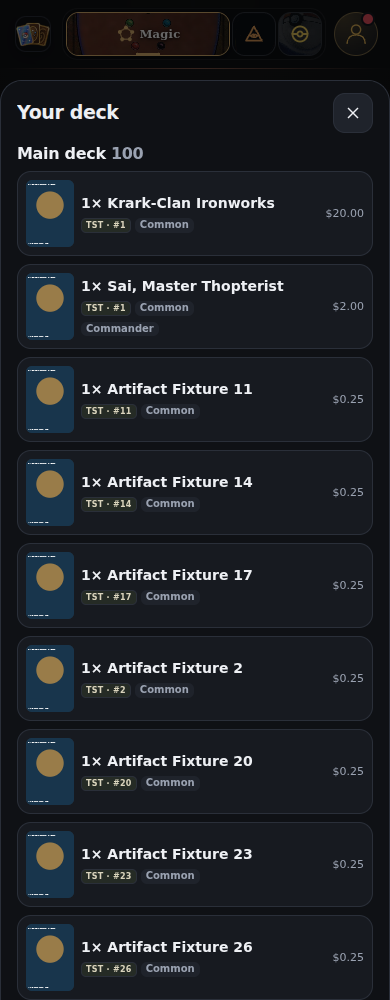
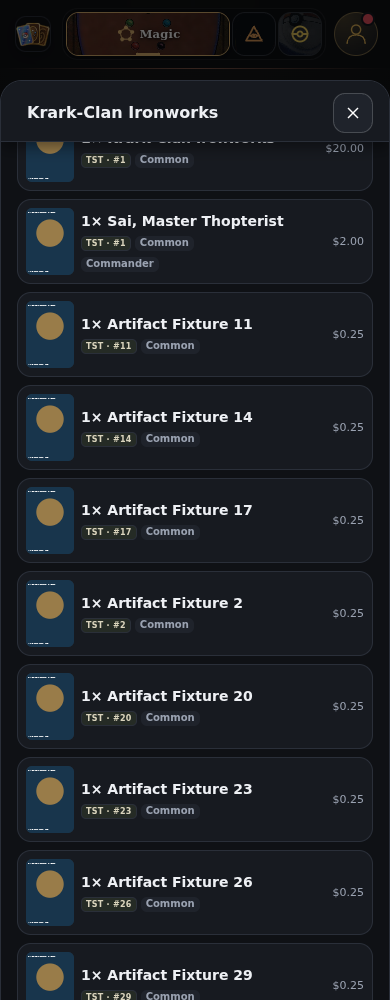
Bring generated decks into the Meta layout and show progress in Ask

diff --git a/deck-experience.js b/deck-experience.js
@@ -1,10 +1,11 @@
 import {DECK_POLICY} from './deck-construction.js';
-import {esc,usd,referencePrintingPills} from './ui.js';
+import {esc,usd,referencePrintingPills,bar,customBudget} from './ui.js';
 import {buildOverlay} from './build-overlay.js';
 import {brandMark} from './brand.js';
 import {artOf,aiReviewPanel,coachEntry,showAiReview} from './ai-review.js';
 import {engineMapPanel} from './engine-map.js';
 const themes={mtg:['White','Blue','Black','Red','Green','Cats','Angels','Humans','Elves','Goblins','Zombies','Lifelink','Lifegain','Tokens','Artifacts','Graveyard'],ptcg:['Grass','Fire','Water','Lightning','Psychic','Fighting','Darkness','Metal','Dragon','Colorless'],ygo:[]};
+const afterPaint=()=>typeof requestAnimationFrame==='function'?new Promise(resolve=>requestAnimationFrame(()=>requestAnimationFrame(resolve))):Promise.resolve();
 const options=(items,value)=>items.map(x=>`<option value="${esc(x.id??x)}" ${(x.id??x)===value?'selected':''}>${esc(x.name??x)}</option>`).join('');
 export function deckSetupMarkup(model,formats){
  if(model.busy)return `<div class="deck-flow" aria-busy="true">${buildOverlay(model.status,{title:model.choosing?'Choosing your card':'Your deck is being built',note:model.choosing?'Finding a card for your selected format.':'Finding cards for your plan and checking the list. Your deck will open here when it’s ready.',cancelAct:'flowCancelBuild'})}</div>`;
@@ -17,14 +18,29 @@ export function deckResultMarkup(result,id,{coach=''}={}){
  const zones=request.game==='ygo'?['main','extra','side']:['main'];
  const sectionCounts=request.game==='ptcg'?['Pokemon','Trainer','Energy'].map(category=>`${rows.filter(r=>r.card?.category===category).reduce((s,r)=>s+r.qty,0)} ${category==='Pokemon'?'Pokémon':category==='Trainer'?'Trainer':'Energy'}`).join(' · '):zones.map(z=>`${rows.filter(r=>r.zone===z).reduce((s,r)=>s+r.qty,0)} ${z==='main'?'main':z==='extra'?'Extra Deck':'Side Deck'}`).join(' · ');
  const count=z=>rows.filter(r=>r.zone===z).reduce((s,r)=>s+r.qty,0);
- const delta=result.delta===null?'':result.delta>0?`${usd(result.delta)} over target`:result.delta<0?`${usd(-result.delta)} below target`:'On target';
+ const budgetLabel=request.budgetMode==='cap'?'cap':'target',delta=result.delta===null?'':result.delta>0?`${usd(result.delta)} over ${budgetLabel}`:result.delta<0?`${usd(-result.delta)} below ${budgetLabel}`:request.budgetMode==='cap'?'At cap':'On target';
  const name=request.seedCard?.name||result.deck.buildAround||'Your deck';
  const hero=cover?.image_uris?.art_crop||cover?.card_faces?.[0]?.image_uris?.art_crop||artOf(cover);
  const cardRow=(r,index)=>{
   const c=r.card,printing=request.game==='mtg'?c:request.game==='ptcg'?{set:c?.set?.code||c?.set?.id,collector_number:c?.number,rarity:c?.rarity}:null;
   return `<button class="mini-row art-row deck-compact-row" data-act="flowCard" data-result="${esc(id)}" data-row="${index}" data-flow-qty="${r.qty}" data-flow-name="${esc(r.name)}">${artOf(c)?`<img class="row-thumb" src="${esc(artOf(c))}" alt="" loading="lazy">`:'<span class="row-thumb img-missing" aria-hidden="true"></span>'}<span class="deck-compact-copy"><b>${r.qty}× ${esc(r.name)}</b>${referencePrintingPills(printing)}${request.game==='ygo'&&c?.archetype?`<span class="tag">${esc(c.archetype)}</span>`:''}${r.name===result.deck.commander?'<span class="tag">Commander</span>':''}</span><span class="small muted">${r.price===null?'Unpriced':usd(r.price*r.qty)}</span></button>`;
  };
- return `<article class="deck-flow-result" data-flow-result="${esc(id)}"><div class="cs-hero compact ${esc(request.game)}">${hero?`<img class="cs-art" src="${esc(hero)}" alt="" loading="lazy">`:''}<div class="cs-shade"></div></div><header class="cs-title"><div><h2>${esc(name)}</h2><p class="type-line">${esc(request.formatName)} · ${sectionCounts}</p></div></header><p class="evidence small">Generated deck · Complete · structure checked</p><div class="deck-result-price"><strong>${pricing.estimate===null&&!pricing.subtotal?'Price unknown':usd(pricing.estimate??pricing.subtotal)+(pricing.estimate===null?'+':'')}</strong><span>${pricing.estimate===null?(pricing.subtotal?'Known subtotal':'No checked prices yet'):'Reference estimate'} · ${pricing.basis==='purchase'?'purchases after owned cards':'whole deck'}</span>${request.budget!==null?`<span class="${result.delta>0?'warn-text':''}">${request.budgetMode==='cap'?'Cap':'Target'} ${usd(request.budget)}${delta?' · '+delta:''}</span>`:''}</div>${pricing.unpriced?`<p class="note warn">${pricing.unpriced} copies are unpriced. The total and budget fit are unverified.</p>`:''}${result.budgetStatus==='outside-target'?'<p class="note warn">This complete candidate exceeds the allowed overage. The loaded pool did not produce a checked list near your target.</p>':''}<p class="small">Built around ${esc(name)}${request.theme?' · requested theme: '+esc(request.theme):''}. ${request.easy?'Ranked to prefer fewer setup requirements. ':''}${request.game==='ptcg'&&result.plan.attackers?.length?'Attack with '+result.plan.attackers.map(c=>esc(c.name)+(c.evolveFrom?' (evolves from '+esc(c.evolveFrom)+')':'')).join(', ')+'. The selected Energy supports at least one attack on each. ':''}Card interactions and performance still need playtesting.</p><button class="btn block" data-act="flowSave" data-result="${esc(id)}">Save deck</button><div class="actions wrap"><button class="btn ghost small" data-act="flowEdit" data-result="${esc(id)}">Edit choices</button><button class="btn ghost small" data-act="flowExport" data-result="${esc(id)}">Export list</button></div><details class="deck-adjust"><summary>Adjust budget</summary><label class="field">New target ($)<input data-flow-budget type="number" min="0" max="100000" step="0.01" value="${esc(request.budget??'')}" placeholder="No target"></label><button class="btn ghost" data-act="flowAdjust" data-result="${esc(id)}">Rebuild with this target</button><p role="status" data-flow-status></p></details><details class="deck-flow-cards" open><summary>View cards</summary>${zones.filter(z=>count(z)>0).map(z=>`<section><h3>${z==='main'?'Main deck':z==='extra'?'Extra Deck':'Side Deck'} <span>${count(z)}</span></h3><div class="list compact deck-compact-list">${rows.map((r,i)=>({r,i})).filter(({r})=>r.zone===z).map(({r,i})=>cardRow(r,i)).join('')}</div></section>`).join('')}</details><details class="settings-disclosure"><summary>Checks &amp; pricing</summary><p class="foot">${esc(pricing.note)} ${Math.round(pricing.coverage*100)}% price coverage. Compared ${result.compared} distinct lists. Power and engine links are heuristics, not matchup win rates or proof of a legal combo.</p>${result.plan.theme?`<p class="foot">Theme evidence: ${esc(result.plan.theme.status)}. ${esc(result.plan.theme.method)}</p>${result.plan.theme.groups.map(g=>`<p class="foot">${esc(g.label)}: ${g.copies} supporting library copies; ${Math.round(g.access*100)}% natural access in the first ${g.seen} cards.</p>`).join('')}`:''}${result.plan.notes.map(n=>`<p class="foot">${esc(n)}</p>`).join('')}${engineMapPanel(result.plan.engine)}</details>${coach?`<details class="settings-disclosure"><summary>AI review &amp; improvements</summary>${coach}<button class="btn ghost small" data-act="flowImprove" data-result="${esc(id)}">Try a checked suggestion</button><p class="foot" data-flow-improve-status role="status"></p></details>`:''}</article>`;
+ const plan=`<p class="small">Built around ${esc(name)}${request.theme?' · requested theme: '+esc(request.theme):''}. ${request.easy?'Ranked to prefer fewer setup requirements. ':''}${request.game==='ptcg'&&result.plan.attackers?.length?'Attack with '+result.plan.attackers.map(c=>esc(c.name)+(c.evolveFrom?' (evolves from '+esc(c.evolveFrom)+')':'')).join(', ')+'. The selected Energy supports at least one attack on each. ':''}Card interactions and performance still need playtesting.</p>`;
+ return `<article class="deck-flow-result" data-flow-result="${esc(id)}">
+  <div class="cs-hero compact ${esc(request.game)}">${hero?`<img class="cs-art" src="${esc(hero)}" alt="" loading="lazy">`:''}<div class="cs-shade"></div></div>
+  <header class="cs-title"><div><h2>${esc(name)}</h2><p class="type-line">${esc(request.formatName)} · ${sectionCounts}</p></div></header>
+  <p class="evidence small">Generated deck · Complete · structure checked</p>
+  <div class="proven-sum deck-result-price"><div><strong>${pricing.estimate===null&&!pricing.subtotal?'Price unknown':usd(pricing.estimate??pricing.subtotal)+(pricing.estimate===null?'+':'')}</strong><span>${pricing.estimate===null?(pricing.subtotal?'Known subtotal':'No checked prices yet'):'Reference estimate'} · ${pricing.basis==='purchase'?'purchases after owned cards':'whole deck'}</span></div><span>You own <b>${pricing.ownedCopies} of ${pricing.copies}</b></span></div>
+  ${bar(pricing.copies?pricing.ownedCopies/pricing.copies:0)}
+  ${request.budget!==null?`<p class="small ${result.delta>0?'warn-text':'muted'}">${request.budgetMode==='cap'?'Cap':'Target'} ${usd(request.budget)}${delta?' · '+delta:''}</p>`:''}
+  ${pricing.unpriced?`<p class="note warn">${pricing.unpriced} copies are unpriced. The total and budget fit are unverified.</p>`:''}
+  ${result.budgetStatus==='outside-target'?'<p class="note warn">This complete candidate exceeds the allowed overage. The loaded pool did not produce a checked list near your target.</p>':''}
+  <div class="deck-result-actions"><button class="btn" data-act="flowSave" data-result="${esc(id)}">Save deck</button>${coach}</div>
+  <div class="deck-budget-rebuild"><label class="field">Budget ($)<input data-flow-budget type="number" min="0" max="100000" step="0.01" inputmode="decimal" value="" placeholder="Enter amount" required></label><button class="btn ghost" data-act="flowAdjust" data-result="${esc(id)}">Rebuild with budget</button><p class="small" role="status" data-flow-status></p></div>
+  <div class="deck-flow-cards">${zones.filter(z=>count(z)>0).map(z=>`<section><h3>${z==='main'?'Main deck':z==='extra'?'Extra Deck':'Side Deck'} <span>${count(z)}</span></h3><div class="list compact deck-compact-list">${rows.map((r,i)=>({r,i})).filter(({r})=>r.zone===z).map(({r,i})=>cardRow(r,i)).join('')}</div></section>`).join('')}</div>
+  <div class="actions wrap sheet-actions"><button class="btn ghost small" data-act="flowEdit" data-result="${esc(id)}">Edit choices</button><button class="btn ghost small" data-act="flowExport" data-result="${esc(id)}">Export list</button></div>
+  <details class="settings-disclosure deck-result-checks"><summary>Deck plan, checks &amp; pricing</summary>${plan}<p class="foot">${esc(pricing.note)} ${Math.round(pricing.coverage*100)}% price coverage. Compared ${result.compared} distinct lists. Power and engine links are heuristics, not matchup win rates or proof of a legal combo.</p>${result.plan.theme?`<p class="foot">Theme evidence: ${esc(result.plan.theme.status)}. ${esc(result.plan.theme.method)}</p>${result.plan.theme.groups.map(g=>`<p class="foot">${esc(g.label)}: ${g.copies} supporting library copies; ${Math.round(g.access*100)}% natural access in the first ${g.seen} cards.</p>`).join('')}`:''}${result.plan.notes.map(n=>`<p class="foot">${esc(n)}</p>`).join('')}${engineMapPanel(result.plan.engine)}${coach?`<button class="btn ghost small" data-act="flowImprove" data-result="${esc(id)}">Try a checked AI suggestion</button><p class="foot" data-flow-improve-status role="status"></p>`:''}</details>
+ </article>`;
 }
 export function createDeckExperience(x){
  const {pipeline,A}=x,results=new Map();let model=null,sequence=0,cancelBuild=null;
@@ -37,16 +53,34 @@ export function createDeckExperience(x){
  const register=(result,scope)=>{const id='deck-result-'+(++sequence);results.set(id,{result,scope,identity:x.identity?.()||scope});while(results.size>30)results.delete(results.keys().next().value);return id;};
  const markup=(id)=>{const item=results.get(id);if(!item)return '';const r=item.result,deck={...r.deck,id},hooks=x.coachHooks?.(r,deck)||{};
   const baseRescore=hooks.rescore;hooks.rescore=(out,card)=>{const trial=pipeline.trialSwap(r,out,card),base=baseRescore?.(out,card)||{};return {...base,issues:[...(base.issues||[]),...(trial.check.issues||[]),...trial.plan.issues]};};
-  return deckResultMarkup(r,id,{coach:aiReviewPanel(r.request.game,deck,name=>r.request.game==='mtg'?x.meta(name):x.T.cardOf(r.request.game,name),r.power,hooks).replace('data-act="aiDeckReview"','data-act="flowCoach" data-result="'+id+'"')});};
+  return deckResultMarkup(r,id,{coach:aiReviewPanel(r.request.game,deck,name=>r.request.game==='mtg'?x.meta(name):x.T.cardOf(r.request.game,name),r.power,hooks,{compact:true}).replace('data-act="aiDeckReview"','data-act="flowCoach" data-result="'+id+'"')});};
  const preferences=()=>{try{return JSON.parse(globalThis.localStorage?.getItem('cardstashy.deck.preferences.v1')||'{}');}catch{return {};}};
  const savePreferences=()=>{const {budgetBasis,budgetMode,preferOwned,ownedOnly,easy}=model.request;try{globalThis.localStorage?.setItem('cardstashy.deck.preferences.v1',JSON.stringify({budgetBasis,budgetMode,preferOwned,ownedOnly,easy}));}catch{}};
  const open=request=>{sequence++;const game=request.game||x.game(),formats=pipeline.formats[game],fallback=formats.find(f=>f.id===({mtg:'standard',ygo:'tcg',ptcg:'standard'}[game]))||formats[0];model={request:{game,format:game==='mtg'?fallback.name:fallback.id,budget:'',budgetBasis:'total',budgetMode:'cap',preferOwned:true,...preferences(),...request},scope:x.scope(),busy:false,status:''};x.open(deckSetupMarkup(model,pipeline.formats),model.request);const opened=model;if(game==='ygo'&&pipeline.themes)pipeline.themes(game).then(names=>{if(model!==opened||!x.isOpen()||!model.scope())return;model.themes=names;const select=x.root().querySelector('[data-flow-field="theme"]');if(select){select.innerHTML='<option value="">No preference</option>'+options([...new Set([model.request.theme,...names].filter(Boolean))],model.request.theme);}}).catch(()=>{if(model===opened&&x.isOpen()){const status=x.root().querySelector('[role="status"]');if(status)status.textContent='Archetypes could not load. You can still build around your card, or reopen to retry.';}});};
  const build=async(input,options={})=>pipeline.build(input,options);
- const show=(result,scope)=>{const id=register(result,scope);x.open(`<div class="sheet-head"><h2>Your deck</h2><button class="icon" data-act="closeSheet" aria-label="Close">✕</button></div>${markup(id)}`,result.request);return id;};
+ // Ask shares construction, but owns a different native dialog. Put progress in
+ // that dialog's top layer and yield a paint even when every provider read is cached.
+ const buildWithProgress=async(input,options={})=>{
+  if(!options.showProgress||typeof document==='undefined')return build(input,options);
+  const host=document.querySelector('.ask-dialog[open]');if(!host)return build(input,options);
+  const overlay=document.createElement('div');overlay.innerHTML=buildOverlay('Finding cards for your plan…',{title:'Your deck is being built',note:'Your finished deck will appear in this conversation.',cancelAct:'flowCancelBuild'});
+  const previous=document.activeElement,background=[...host.children].map(node=>({node,inert:node.inert}));
+  for(const {node} of background)node.inert=true;
+  host.append(overlay);let active=true,settleCancel;
+  const cancelled=new Promise(resolve=>settleCancel=resolve),cancel=()=>{active=false;settleCancel({ok:false,message:'Build cancelled. Nothing was saved.'});};
+  const button=overlay.querySelector('button');button.addEventListener('click',e=>{e.preventDefault();e.stopPropagation();cancel();});button.focus();
+  host.addEventListener('close',cancel);options.signal?.addEventListener('abort',cancel,{once:true});
+  const current=()=>active&&host.open&&options.current?.()!==false&&!options.signal?.aborted;
+  try{
+   await afterPaint();if(!current())return {ok:false,message:'Build cancelled. Nothing was saved.'};
+   return await Promise.race([cancelled,build(input,{...options,current,onStatus:message=>{if(current()){overlay.querySelector('[role="status"]').textContent=message;options.onStatus?.(message);}}})]);
+  }finally{active=false;overlay.remove();for(const {node,inert} of background)node.inert=inert;host.removeEventListener('close',cancel);options.signal?.removeEventListener('abort',cancel);if(host.open&&previous?.isConnected)previous.focus?.({preventScroll:true});}
+ };
+ const show=(result,scope)=>{const id=register(result,scope);x.open(`<div class="sheet-head overlay"><span aria-hidden="true"></span><button class="icon" data-act="closeSheet" aria-label="Close">✕</button></div>${markup(id)}`,result.request);return id;};
  const get=button=>{const item=results.get(button.dataset.result);if(!item||!item.scope())throw Error('Your account or collection changed. Rebuild before saving.');return item;};
  A.flowCancelBuild=()=>{if(cancelBuild){const cancel=cancelBuild;cancelBuild=null;cancel();}};
- A.flowGenerate=async()=>{if(model.busy)return;read();savePreferences();const token=++sequence;model.busy=true;model.choosing=false;model.error=false;model.status='Finding a coherent plan…';cancelBuild=()=>{sequence++;model.busy=false;model.status='Build cancelled. Your choices are unchanged.';paint();};paint();try{const result=await build(model.request,{current:()=>current(token),onStatus:message=>{if(current(token)){model.status=message;const status=x.root().querySelector('[role="status"]');if(status)status.textContent=message;}}});if(!current(token))return;if(result.ok)show(result,model.scope);else{model.busy=false;model.error=true;model.status=result.message;paint();}}catch(e){if(current(token)){model.busy=false;model.error=true;model.status=e.message;paint();}}};
- A.flowRandom=async()=>{if(model.busy)return;read();const token=++sequence;model.busy=true;model.error=false;model.status='Choosing a build-around…';model.choosing=true;cancelBuild=()=>{sequence++;model.busy=false;model.status='Selection cancelled. Your choices are unchanged.';paint();};paint();try{const r={...model.request,seed:'',seedCard:null,seedCards:[],ygoPurchaseSelections:{},ptcgPurchaseSelections:{},randomSeed:Math.floor(Math.random()*1e9)};const card=await x.random(r);if(!current(token))return;model.request={...r,seed:card.name,seedCard:card,seedCards:[card]};model.busy=false;model.error=false;model.status='';paint();}catch(e){if(current(token)){model.busy=false;model.error=true;model.status=e.message;paint();}}};
+ A.flowGenerate=async()=>{if(model.busy)return;read();savePreferences();const token=++sequence;model.busy=true;model.choosing=false;model.error=false;model.status='Finding a coherent plan…';cancelBuild=()=>{sequence++;model.busy=false;model.status='Build cancelled. Your choices are unchanged.';paint();};paint();try{await afterPaint();if(!current(token))return;const result=await build(model.request,{current:()=>current(token),onStatus:message=>{if(current(token)){model.status=message;const status=x.root().querySelector('[role="status"]');if(status)status.textContent=message;}}});if(!current(token))return;if(result.ok)show(result,model.scope);else{model.busy=false;model.error=true;model.status=result.message;paint();}}catch(e){if(current(token)){model.busy=false;model.error=true;model.status=e.message;paint();}}};
+ A.flowRandom=async()=>{if(model.busy)return;read();const token=++sequence;model.busy=true;model.error=false;model.status='Choosing a build-around…';model.choosing=true;cancelBuild=()=>{sequence++;model.busy=false;model.status='Selection cancelled. Your choices are unchanged.';paint();};paint();try{await afterPaint();if(!current(token))return;const r={...model.request,seed:'',seedCard:null,seedCards:[],ygoPurchaseSelections:{},ptcgPurchaseSelections:{},randomSeed:Math.floor(Math.random()*1e9)};const card=await x.random(r);if(!current(token))return;model.request={...r,seed:card.name,seedCard:card,seedCards:[card]};model.busy=false;model.error=false;model.status='';paint();}catch(e){if(current(token)){model.busy=false;model.error=true;model.status=e.message;paint();}}};
  // Random Commander keeps Commander through rerolls, generation, save and edit; switching to another format is an
  // explicit step into the general builder, never a silent change.
  A.flowAnyFormat=()=>{if(!model)return;read();sequence++;model.request={...model.request,commanderLock:false};model.busy=false;model.error=false;model.status='';paint();};
@@ -54,7 +88,7 @@ export function createDeckExperience(x){
  A.flowExport=button=>{const {result:r}=get(button);x.export(r.rows.map(row=>`${row.qty} ${row.name}${row.zone!=='main'?' ['+row.zone+']':''}${r.request.game==='ptcg'?' ['+row.id+(row.selection?.variant?' · '+row.selection.variant:'')+']':''}`).join('\n'));};
  A.flowEdit=button=>open(get(button).result.request);
  A.flowCard=button=>{const {result:r}=get(button);x.card(r.request.game,r.rows[Number(button.dataset.row)]);};
- A.flowAdjust=async button=>{const item=get(button),root=button.closest('[data-flow-result]'),field=root.querySelector('[data-flow-budget]'),status=root.querySelector('[data-flow-status]'),value=field.value,token=++sequence;button.disabled=true;const overlay=document.createElement('div');overlay.innerHTML=buildOverlay('Finding cards for your updated budget…',{title:'Your deck is being built',note:'Your updated deck will open here when it’s ready.',cancelAct:'flowCancelBuild'});root.append(overlay);overlay.querySelector('button')?.focus();cancelBuild=()=>{sequence++;overlay.remove();button.disabled=false;status.textContent='Rebuild cancelled. Your deck is unchanged.';button.focus();};try{const result=await build({...item.result.request,budget:value,previousDeck:item.result.deck},{current:()=>sequence===token&&item.scope()&&root.isConnected,onStatus:m=>{if(sequence===token&&overlay.isConnected)overlay.querySelector('[role="status"]').textContent=m;}});if(sequence!==token||!root.isConnected)return;if(result.ok){const id=register(result,item.scope);root.outerHTML=markup(id);}else status.textContent=result.message;}catch(e){if(sequence===token&&root.isConnected)status.textContent=e.message;}finally{overlay.remove();if(sequence===token)button.disabled=false;}};
+ A.flowAdjust=async button=>{const item=get(button),root=button.closest('[data-flow-result]'),field=root.querySelector('[data-flow-budget]'),status=root.querySelector('[data-flow-status]'),value=field.value;let budget;try{budget=customBudget(value);}catch(e){status.textContent=e.message;field.focus();return;}const token=++sequence;button.disabled=true;const overlay=document.createElement('div');overlay.innerHTML=buildOverlay('Finding cards for your updated budget…',{title:'Your deck is being built',note:'Your updated deck will open here when it’s ready.',cancelAct:'flowCancelBuild'});root.append(overlay);overlay.querySelector('button')?.focus();cancelBuild=()=>{sequence++;overlay.remove();button.disabled=false;status.textContent='Rebuild cancelled. Your deck is unchanged.';button.focus();};try{await afterPaint();if(sequence!==token||!root.isConnected)return;const result=await build({...item.result.request,budget,previousDeck:item.result.deck},{current:()=>sequence===token&&item.scope()&&root.isConnected,onStatus:m=>{if(sequence===token&&overlay.isConnected)overlay.querySelector('[role="status"]').textContent=m;}});if(sequence!==token||!root.isConnected)return;if(result.ok){const id=register(result,item.scope);root.outerHTML=markup(id);}else status.textContent=result.message;}catch(e){if(sequence===token&&root.isConnected)status.textContent=e.message;}finally{overlay.remove();if(sequence===token)button.disabled=false;}};
  A.flowCoach=button=>{const item=get(button);return showAiReview(item.result.request.game+':'+button.dataset.result,()=>{});};
  A.flowImprove=async button=>{
   const item=get(button),root=button.closest('[data-flow-result]'),status=root.querySelector('[data-flow-improve-status]'),key=item.result.request.game+':'+button.dataset.result;
@@ -69,5 +103,5 @@ export function createDeckExperience(x){
   }finally{button.disabled=false;}
  };
  x.onInput(()=>{if(!model||!x.isOpen()||model.busy)return;read();sequence++;model.busy=false;model.error=false;model.status='';showStatus();const note=x.root().querySelector('[data-flow-budget-note]');if(note)note.hidden=String(model.request.budget??'').trim()==='';if(note)note.textContent=(model.request.budgetBasis==='purchase'?'Cards you need to buy':'Whole deck')+' · '+(model.request.budgetMode==='target'?'Flexible target; allowed overage is shown':'Strict cap; never relaxed automatically')+'.';const button=x.root().querySelector('[data-act="flowGenerate"]');if(button){button.disabled=false;button.textContent='Generate deck';}});
- return {open,build,register,markup,show};
+ return {open,build:buildWithProgress,register,markup,show};
 }

diff --git a/style.css b/style.css
@@ -5070,8 +5070,8 @@ body[data-view="home"] #content > #homeHero.home-art-header{background:none}
 .deck-format-lock{display:flex;flex-wrap:wrap;align-items:center;gap:6px 12px}.deck-format-lock>span{color:var(--muted)}.deck-format-lock>b{flex:1}
 .deck-setup-fields{display:grid;grid-template-columns:repeat(2,minmax(0,1fr));gap:0 16px;margin-top:12px}.deck-setup-fields>.field:last-child{grid-column:1/-1}
 .deck-flow-result>.cs-hero{margin:0;border-radius:18px;height:180px}.deck-flow-result>.cs-title{margin-top:-28px}.deck-flow-result>.cs-title h2{overflow-wrap:break-word}.ask-msg .deck-flow-result>.cs-hero{height:150px}
-.deck-result-price{display:flex;flex-wrap:wrap;align-items:baseline;gap:6px 12px;padding:12px 0;border-block:1px solid var(--line)}.deck-result-price strong{font-size:1.5rem}.deck-result-price span{font-size:.875rem;color:var(--muted)}.deck-result-price .warn-text{color:var(--gold)}
-.deck-flow-result>.actions{margin-top:10px}.deck-flow-cards{margin-top:18px}.deck-flow-cards summary,.deck-adjust summary{cursor:pointer;padding:12px 0;min-height:44px}.deck-flow-cards h3{font-size:1rem;margin:18px 0 8px}.deck-flow-cards h3 span{color:var(--muted)}
+.deck-result-price{display:flex;flex-wrap:wrap;align-items:baseline;gap:6px 12px;padding:12px 0;border-block:1px solid var(--line)}.deck-result-price strong{font-size:1.5rem}.deck-result-price>div{display:flex;flex-wrap:wrap;align-items:baseline;gap:4px 10px}.deck-result-price span{font-size:.875rem;color:var(--muted)}.deck-result-price .warn-text{color:var(--gold)}
+.deck-flow-result>.actions{margin-top:14px}.deck-flow-cards{margin-top:16px}.deck-flow-cards h3{font-size:1rem;margin:18px 0 8px}.deck-flow-cards h3 span{color:var(--muted)}
 
 .ask-items:has(.deck-flow-result){display:block}.ask-msg .deck-flow-result{width:100%}.ask-msg .deck-flow-result .ai-review{padding:12px 0;border:0;box-shadow:none;background:transparent}
 @media(max-width:420px){.deck-setup-fields{grid-template-columns:1fr}}
@@ -5089,3 +5089,7 @@ body[data-view="home"] #content > #homeHero.home-art-header{background:none}
 
 .settings-page .btn:not(.ghost):not(.danger){background:var(--brand-action);color:var(--brand-action-ink);border-color:var(--brand-action)}
 .deck-setup-fields .field small{font-size:12px;line-height:1.5;color:var(--muted);font-weight:400}
+
+/* Generated decks use the established Meta inspector, with one clear action row. */
+.deck-result-actions{display:flex;align-items:flex-start;gap:10px;margin:14px 0}.deck-result-actions>.btn,.deck-coach-action{flex:1;min-width:0}.deck-coach-action>.btn{width:100%;display:flex;justify-content:center;align-items:center;gap:7px}.deck-coach-action .stashy-logo{width:28px;height:28px;flex:none}.deck-coach-action small{display:block;font-size:10px;line-height:1.4;color:var(--muted);margin:5px 2px 0}.deck-budget-rebuild{display:grid;grid-template-columns:minmax(0,1fr) auto;gap:8px 12px;align-items:end;padding:14px 0;border-block:1px solid var(--line)}.deck-budget-rebuild .field{margin:0}.deck-budget-rebuild>.btn{margin-bottom:0}.deck-budget-rebuild>[role=status]{grid-column:1/-1;margin:0}.deck-budget-rebuild>[role=status]:empty{display:none}.deck-result-checks>summary{cursor:pointer;min-height:44px;padding:12px 0}.deck-flow-result>.cs-hero{height:200px}.deck-flow-result>.cs-title{margin-top:-30px}.deck-flow-result .deck-flow-cards h3{font-size:.95rem}
+@media(max-width:420px){.deck-budget-rebuild{grid-template-columns:minmax(0,1fr)}.deck-budget-rebuild>.btn{width:100%}.deck-result-actions{gap:8px}.deck-coach-action small{font-size:10px}}

diff --git a/ai-review.js b/ai-review.js
@@ -219,7 +219,7 @@ function verify(entry) {
 
 /* ---------- Launcher and dialog ---------- */
 
-export function aiReviewPanel(game, deck, lookup, p, hooks = {}) {
+export function aiReviewPanel(game, deck, lookup, p, hooks = {}, {compact = false} = {}) {
   const payload = reviewPayload(game, deck, lookup, p), signature = JSON.stringify(payload), key = game + ':' + deck.id;
   let entry = entries.get(key);
   if (!entry || entry.signature !== signature) {
@@ -228,6 +228,7 @@ export function aiReviewPanel(game, deck, lookup, p, hooks = {}) {
     if (activeDialog?.key === key) { activeDialog.stale = true; updateDialog(); }
   } else entry.hooks = hooks;
   const result = entry.result, ready = result ? `${plural(result.pilot?.lines?.length || 0, 'line')} · ${plural(result.pressure?.scenarios?.length || 0, 'stress test')} · ${plural(result.improve?.length || 0, 'swap')}` : '';
+  if(compact)return `<div class="deck-coach-action"><button class="btn ghost" data-act="aiDeckReview" data-ai="${esc(key)}" aria-label="AI review of this deck">${brandMark('brand-idle')}<span>${entry.busy?'View AI progress':result?'Open AI review':'AI review'}</span></button><small>Optional · sends card text and owned swap candidates to OpenAI.</small></div>`;
   return `<section class="panel ai-review ai-review-launch" aria-label="AI deck coach"><div class="ai-launch-top"><span class="ai-sigil" aria-hidden="true">${brandMark("brand-idle")}</span><div><p class="eyebrow">AI coach · all three games</p><h3>Pilot, pressure-test and improve this deck</h3></div><span class="chip">AI</span></div><p class="small muted">Possible lines from your own cards, recovery plans and owned swaps. Basic card, quote and turn checks catch some mistakes; they do not verify the full advice or a winning route.</p><div class="ai-launch-actions"><button class="btn small" data-act="aiDeckReview" data-ai="${esc(key)}">${entry.busy ? 'View coaching progress' : result ? 'Open coaching' : 'Coach this deck'} <span aria-hidden="true">↗</span></button><span class="small muted">${entry.busy ? 'Coaching in progress' : result ? ready : 'Optional · your score stays unchanged'}</span></div><p class="foot">Tapping it sends this deck's card text, the app's checks and the names and text of up to 25 cards you own to OpenAI. Your account details and prices stay out of the request.</p><div role="status" aria-live="polite">${entry.error ? `<p class="warn-text small">${esc(entry.error)}</p>` : ''}</div></section>`;
 }
 
@@ -333,7 +334,7 @@ export function closeAiReview() {
   if (!activeDialog) return;
   const { node, key } = activeDialog; activeDialog = null;
   node.close?.(); node.remove();
-  [...document.querySelectorAll('[data-act="aiDeckReview"]')].find(b => b.dataset.ai === key)?.focus({ preventScroll: true });
+  [...document.querySelectorAll('[data-act="aiDeckReview"], [data-act="flowCoach"]')].find(b => b.dataset.ai === key)?.focus({ preventScroll: true });
 }
 export function showAiReview(key, render, fetcher = fetch) {
   const entry = entries.get(key); if (!entry) return;

diff --git a/release-record.js b/release-record.js
@@ -1,6 +1,6 @@
 // Coordinated website/Android release; the signed artifact hash is filled after verification.
 export const RELEASE = Object.freeze({
  id:'web-3.94.0-android-0.6.0',date:'2026-10-23',webVersion:'3.94.0',
- changes:['Deck generation shows the animated CardStashy logo with live progress and cancellation, then opens the completed deck. Generated decks share the existing artwork header and readable card-row design.','Deck requests preserve more creature types and keyword abilities, explicit creature-type restrictions and strict spending caps. Flexible budget targets remain an explicit choice.','Commander builds check recognized support and show access estimates. Life-gain direction, changeling, alternative subtypes and common self-conflicts use shared evidence; legality is distinct from strategic strength.','Explore related cards by type, ability or Yu-Gi-Oh! archetype using existing Search, with a return to the original card. Pokémon Ability-name results are explicitly limited to loaded card data.','More than 250 Magic keyword/action definitions link to the dated official rulebook; additional Pokémon and Yu-Gi-Oh! reminders retain hover, touch and exact-source navigation.'],
- android:Object.freeze({version:'0.6.0 beta',versionName:'0.6.0-beta',versionCode:13,interfaceVersion:'3.94.0',package:'com.cardstashy.app',href:'/downloads/cardstashy-android-beta-0.6.0.apk',bytes:0,sha256:'PENDING'})
+ changes:['Deck generation shows the animated CardStashy logo with live progress and cancellation, then opens the completed deck. Generated decks share the existing artwork header and readable card-row design, with AI review near the top and a blank Rebuild with budget control.','Deck requests preserve more creature types and keyword abilities, explicit creature-type restrictions and strict spending caps. Flexible budget targets remain an explicit choice.','Commander builds check recognized support and show access estimates. Life-gain direction, changeling, alternative subtypes and common self-conflicts use shared evidence; legality is distinct from strategic strength.','Explore related cards by type, ability or Yu-Gi-Oh! archetype using existing Search, with a return to the original card. Pokémon Ability-name results are explicitly limited to loaded card data.','More than 250 Magic keyword/action definitions link to the dated official rulebook; additional Pokémon and Yu-Gi-Oh! reminders retain hover, touch and exact-source navigation.'],
+ android:Object.freeze({version:'0.6.0 beta',versionName:'0.6.0-beta',versionCode:13,interfaceVersion:'3.94.0',package:'com.cardstashy.app',href:'/downloads/cardstashy-android-beta-0.6.0.apk',bytes:0,sha256:'PENDING_SIGNED_ARTIFACT'})
 });

diff --git a/ai-tools.js b/ai-tools.js
@@ -233,7 +233,7 @@ export function makeAskTools(x) {
       if(!selected)return {game:g,requiresChoice:true,formats:formats.map(f=>({id:f.id,name:f.name})),note:'Choose a format before preparing a deck. No deck has been changed.'};
       if(x.deckExperience){
         const previous=lastSharedBuild?.current()&&/^\s*(?:keep|same|make (?:it|that)|adjust|change|closer|cheaper|easier|simpler)/i.test(handshake.userRequest||'')&&lastSharedBuild.result.request.game===g&&lastSharedBuild.result.request.format===selected.id?lastSharedBuild.result:null;
-        const result=await x.deckExperience.build({...checked.args,previousDeck:previous?.deck,seed:seed||previous?.request.seed,seedCard:seed&&seed!==previous?.request.seed?null:previous?.request.seedCard,game:g,format:selected.id,budget:budget===0?null:budget,theme:previous&&/^(?:easy|easier|simple|simpler|beginner|cheaper|closer|easy to play)(?: deck)?$/i.test(want.trim())?previous.request.theme:g==='mtg'?want:g==='ptcg'?(['Grass','Fire','Water','Lightning','Psychic','Fighting','Darkness','Metal','Dragon','Colorless'].find(t=>new RegExp('\\b'+t+'\\b','i').test(want))||''):(!seed&&!vagueDeckStyle(want)?want:''),easy:/easy|easier|beginner|simple|simpler/i.test(style||'')},{current:preparingCurrent});
+        const result=await x.deckExperience.build({...checked.args,previousDeck:previous?.deck,seed:seed||previous?.request.seed,seedCard:seed&&seed!==previous?.request.seed?null:previous?.request.seedCard,game:g,format:selected.id,budget:budget===0?null:budget,theme:previous&&/^(?:easy|easier|simple|simpler|beginner|cheaper|closer|easy to play)(?: deck)?$/i.test(want.trim())?previous.request.theme:g==='mtg'?want:g==='ptcg'?(['Grass','Fire','Water','Lightning','Psychic','Fighting','Darkness','Metal','Dragon','Colorless'].find(t=>new RegExp('\\b'+t+'\\b','i').test(want))||''):(!seed&&!vagueDeckStyle(want)?want:''),easy:/easy|easier|beginner|simple|simpler/i.test(style||'')},{current:preparingCurrent,showProgress:true,signal:handshake.signal});
         if(!preparingCurrent())return {cancelled:true,terminal:true,note:'This request or workspace changed. Nothing was saved.'};
         if(!result.ok)return {game:g,terminal:true,ready:false,complete:false,requestSatisfied:false,note:result.message,issues:result.details||[]};
         lastSharedBuild={result,current:scopeCurrent};

diff --git a/docs/releases/deck-knowledge-3.94.0.md b/docs/releases/deck-knowledge-3.94.0.md
@@ -8,7 +8,7 @@ Request preservation, spending policy, recognized strategic support and card exp
 
 - The dated Scryfall vocabulary snapshot supplies 365 creature types and 223 keyword abilities, plus action/ability-word vocabulary. A catalog name establishes recognition, not full mechanical modeling. Source URLs, retrieval date and response hashes are retained in `mtg-vocabulary.js`.
 - Explicit supported subtype/keyword requests survive model omissions. Recognized directives such as “only Angel creatures” and “without Angels” also become type restrictions, distinct from a tribal preference. Noncreature support spells remain permitted by an Angel-only creature restriction. Unknown prose remains reviewable, not verified.
-- Deck generation reuses the existing animated CardStashy-logo progress pop-up, with live status and cancellation. Cancelled/closed builds cannot replace a newer view. Completion opens the deck automatically; failures restore the setup and choices. Budget rebuilds use the same progress presentation. Generated manual/Ask results use the existing artwork header, reference-printing badges and readable compact deck rows. Generated results remain clearly distinct from tournament evidence.
+- Deck generation reuses the existing animated CardStashy-logo progress pop-up, with live status and cancellation. Manual and Ask builds yield a browser paint before cached analysis, and Ask progress lives inside its active dialog’s top layer. Cancelled/closed builds cannot replace a newer view. Completion opens the deck automatically; failures restore the setup and choices. Budget rebuilds use the same progress presentation. Generated manual/Ask results use the existing artwork header, ownership summary, reference-printing badges and readable compact deck rows. Save and compact branded AI review are at the top, followed by a blank “Rebuild with budget” field; blank input cannot silently remove a spending cap. Longer plan/check details are below the cards. Generated results remain clearly distinct from tournament evidence.
 - Numeric budgets default to strict caps. Only explicit flexibility enables target mode. Complete but over-cap/unpriced candidates cannot pass a finite cap. Flexible targets may present disclosed alternatives. Estimates exclude tax/shipping and are not checkout quotes.
 - Selection and final checks share recognized tribal and effect evidence. Commander plans receive primary support checks even without an explicit style. Two supporting library copies are only a minimum sanity check: passing is **not** proof of adequate tribal density, consistency or competitive quality. Natural support access in the first 11 cards is shown separately from casting, tutors, mulligans and game execution.
 - Corrected demonstrated life-gain ownership/variable-output recognition, Angel-or-Cleric alternatives, changeling and multiword creature types. Shared life-gain evidence is also used by the constructed assessment. Common entering-trigger, life-gain and life-payment blockers appear as conditional coexistence warnings; sequencing/removing the blocker can restore a route. This is not a complete rules simulator.
@@ -23,13 +23,15 @@ Request preservation, spending policy, recognized strategic support and card exp
 
 `tests/deck-knowledge-browser.mjs` runs the real application with synthetic providers, artwork and local state at 390 and 1440 px for all three games. It checks expanded reminders, hover/tap behavior, typed discovery, same-Search card return, explicit loaded-only scope and fixture health. Screenshots below are synthetic UI evidence, not physical-card appearance or live-provider proof.
 
+- [Generated deck overview](deck-knowledge/generated-deck-overview-phone.png)
+- [AI build progress](deck-knowledge/ai-building-phone.png)
 - [Build progress pop-up](deck-knowledge/building-phone.png)
 - [Generated deck rows](deck-knowledge/generated-deck-phone.png)
 - [Magic phone](deck-knowledge/magic-phone.png)
 - [Yu-Gi-Oh! phone](deck-knowledge/yugioh-phone.png)
 - [Pokémon phone](deck-knowledge/pokemon-phone.png)
 
-`tests/deck-build-presentation-browser.mjs` exercises the real builder with synthetic providers at phone/desktop sizes: animated logo, reduced motion, cancellation/late response, automatic completion, shared card rows, failed-cap recovery and no automatic save.
+`tests/deck-build-presentation-browser.mjs` exercises the real builder with synthetic providers at 320, 390 and 1440 px, plus a real Ask-to-builder handoff with mocked model output: animated logo, reduced motion, cancellation/late response, automatic completion, shared card rows, blank-budget rejection, successful budget rebuild, failed-cap recovery, cancellation that preserves an earlier inline deck, and no automatic save.
 
 Final suite, hosted checks, signed bundle comparison and deployment verification are recorded separately when completed. Physical Android interaction is untested in this environment.
 
